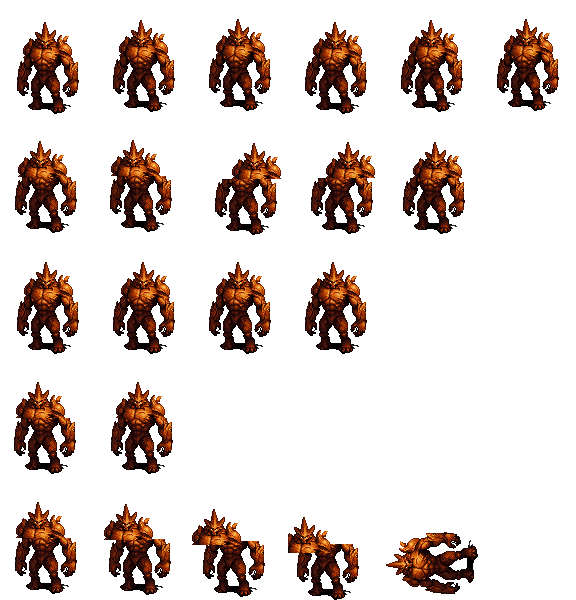
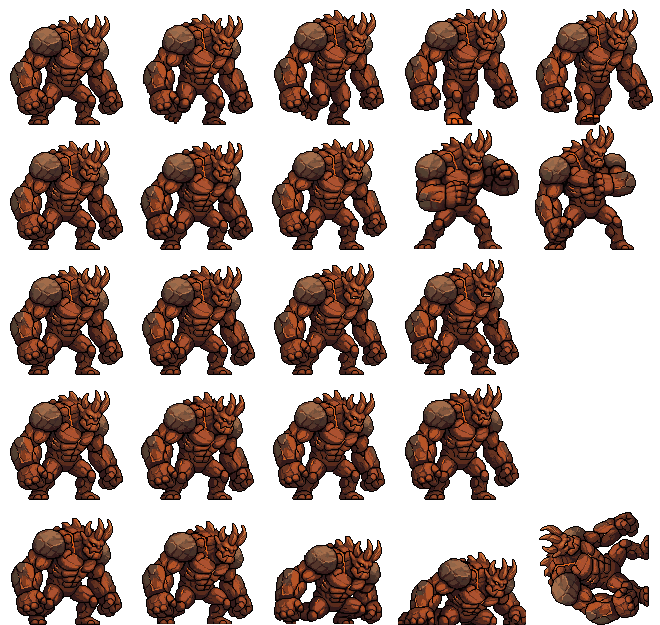
Art cleanup prototype: Thorn Warden and Stone Golem remade in the main style, foes tools
Claude-Session: https://claude.ai/code/session_01PhJ3J8jtF6m8CHNUaB6hBA

diff --git a/src/sim/foes.ts b/src/sim/foes.ts
@@ -73,7 +73,7 @@ export const FOES: Record<string, UnitDef> = {
   orcWarlord: { ...WARLORD, id: 'orcWarlord', name: 'Orc Warlord', sheet: 'hk_orc_warlord', scale: 0.55 },
   demonLord: { ...DEMON_LORD, id: 'demonLord', name: 'Demon Lord', sheet: 'hk_demon_lord', scale: 0.46, hp: 3600, atk: 70 },
   hornedOgre: { ...HORNED_OGRE, id: 'hornedOgre', name: 'Horned Ogre', sheet: 'hk_ogre_horned', scale: 0.47, hp: 4800, atk: 85 },
-  forestBoss1: { ...FOREST, id: 'forestBoss1', name: 'Thorn Warden', sheet: 'forest_boss_1', scale: 1.05, hp: 3300, atk: 65 },
+  forestBoss1: { ...FOREST, id: 'forestBoss1', name: 'Thorn Warden', sheet: 'forest_boss_1', scale: 0.45, hp: 3300, atk: 65 },
   forestBoss2: { ...FOREST, id: 'forestBoss2', name: 'Wood Raider', sheet: 'forest_boss_2', scale: 1.05, hp: 3900, atk: 72, def: 6, moveMs: 500, atkMs: 900, jump: 3, role: 'Forest raider, quick' },
   forestBoss3: { ...FOREST, id: 'forestBoss3', name: 'Grove Spearlord', sheet: 'forest_boss_3', scale: 1.28, hp: 6000, atk: 100, def: 5, range: 2, role: 'Forest spearman' },
   // the armies' kinds (same sheets, a skill each)
@@ -110,7 +110,7 @@ export const FOES: Record<string, UnitDef> = {
   nineTails: { ...MID, id: 'nineTails', name: 'Nine-Tailed Fox', sheet: 'kitsune', scale: 0.95, hp: 1500, atk: 46, def: 6, range: 3, shot: 'fire', moveMs: 600, atkMs: 1300, role: 'Foxfire, and heroes turn on their own' },
   oniKing: { side: 'foe', id: 'oniKing', name: 'Oni King', sheet: 'oni_king', scale: 0.5, hp: 3200, atk: 80, def: 11, range: 1, moveMs: 850, atkMs: 1300, jump: 2, role: 'Smashes the line, roars heroes down' },
   // the Golem Forge
-  stoneGolem: { ...GOLEM, id: 'stoneGolem', name: 'Stone Golem', sheet: 'golem_stone', scale: 0.55, role: 'Crushing blows' },
+  stoneGolem: { ...GOLEM, id: 'stoneGolem', name: 'Stone Golem', sheet: 'golem_stone', scale: 0.45, role: 'Crushing blows' },
   ironGolem: { ...GOLEM, id: 'ironGolem', name: 'Iron Golem', sheet: 'golem_iron', scale: 0.55, hp: 540, atk: 24, def: 12, moveMs: 1100, role: 'Plated, draws the heroes' },
   crystalGolem: { ...GOLEM, id: 'crystalGolem', name: 'Crystal Golem', sheet: 'golem_crystal', scale: 0.55, hp: 340, atk: 26, def: 7, moveMs: 900, atkMs: 1300, role: 'Shards that hold heroes still' },
   magmaGolem: { ...GOLEM, id: 'magmaGolem', name: 'Magma Golem', sheet: 'golem_magma', scale: 0.55, hp: 400, atk: 32, def: 6, moveMs: 950, role: 'Molten blows, bursts of magma' },

diff --git a/tools/pixellab/foes/gen.py b/tools/pixellab/foes/gen.py
@@ -1,0 +1,58 @@
+# Remakes a foe's art with PixelLab (docs/notes/art-cleanup.md); same flow as heroes/gen.py.
+#   gen.py base <id> <seed>          submit a base figure (4 candidates), poll, save tools/w/base/<id>_s<seed>_<n>.png (job id saved first)
+#   gen.py anim <id> <row,row,..>    submit the clips from tools/w/pick_<id>.png (the picked candidate)
+#   gen.py collect <id> <row,row,..> poll them and save the frames to tools/w/anim/<id>_<row>_<n>.png
+# then: python3 tools/pixellab/cut.py <id> walk,attack,idle,hurt,dead[,attack2]  and  python3 tools/pixellab/heroes/finish.py <id>
+import sys,os,json,io,base64
+sys.path.insert(0,os.path.dirname(os.path.dirname(os.path.abspath(__file__))));sys.path.insert(0,os.path.dirname(os.path.abspath(__file__)))
+os.chdir(os.path.dirname(os.path.dirname(os.path.dirname(os.path.dirname(os.path.abspath(__file__))))))
+from api import *
+from spec import *
+from PIL import Image
+W='tools/w/';os.makedirs(W+'anim',exist_ok=True);os.makedirs(W+'base',exist_ok=True)
+cmd,i=sys.argv[1:3];h=HEROES[i]
+def save(r,path):
+    ims=(r.get('last_response') or {}).get('images',[])
+    for n,m in enumerate(ims):Image.open(io.BytesIO(base64.b64decode(m['base64']))).convert('RGBA').save(path(n))
+    return len(ims)
+if cmd=='base':
+    seed=int(sys.argv[3]);c=h['canvas']
+    refs=[ref(r,'idle',c) for r in h['refs']]
+    body={'style_images':[{'image':{'type':'base64','base64':b64(r),'format':'png'},'width':c,'height':c} for r in refs],'description':h['desc'],'style_description':SD,'no_background':True,'seed':seed}
+    r=post('/generate-with-style-v2',body,W+'base_%s_s%d.json'%(i,seed));print(list(r.keys()))
+    job=r.get('background_job_id')
+    if job:r=poll(job)
+    print(r.get('status'),save(r,lambda n:W+'base/%s_s%d_%d.png'%(i,seed,n)))
+elif cmd=='anim':
+    # gen.py anim <id> <rows> [seed] [frames]: a hero's own prompt (spec 'anims') beats the shared one
+    seed=int(sys.argv[4]) if len(sys.argv)>4 else 7;n=int(sys.argv[5]) if len(sys.argv)>5 else 4
+    img=Image.open(W+'pick_%s.png'%i).convert('RGBA')
+    for k in sys.argv[3].split(','):
+        if os.path.exists(W+'job_%s_%s_s%d.json'%(i,k,seed)):continue   # already submitted: a rerun resumes
+        body={'first_frame':{'type':'base64','base64':b64(img),'format':'png'},'action':h.get('anims',{}).get(k,ANIMS[k]),'frame_count':n,'no_background':True,'seed':seed}
+        print(k,post('/animate-with-text-v3',body,W+'job_%s_%s_s%d.json'%(i,k,seed))['background_job_id'])
+elif cmd=='collect':
+    # gen.py collect <id> <rows> [seed]: frames go to anim/<id>_<row>_s<seed>_<n>.png (use `use` to pick a take)
+    seed=int(sys.argv[4]) if len(sys.argv)>4 else 7
+    for k in sys.argv[3].split(','):
+        r=poll(json.load(open(W+'job_%s_%s_s%d.json'%(i,k,seed)))['background_job_id'])
+        print(k,r['status'],save(r,lambda n:W+'anim/%s_%s_s%d_%d.png'%(i,k,seed,n)))
+elif cmd=='use':
+    # gen.py use <id> <row>=<seed> ...: copy a take to the names cut.py reads
+    import shutil,glob
+    for a in sys.argv[3:]:
+        k,seed=a.split('=');src=k
+        if ':' in seed:src,seed=seed.split(':')    # row=otherrow:seed uses another row's take (e.g. attack=attack2:5)
+        for f in glob.glob(W+'anim/%s_%s_[0-9]*.png'%(i,k)):os.remove(f)
+        for f in glob.glob(W+'anim/%s_%s_s%s_*.png'%(i,src,seed)):shutil.copy(f,W+'anim/%s_%s_%s'%(i,k,f.rsplit('_',1)[1]))
+elif cmd=='strip':
+    # gen.py strip <id> <row>=<seed> ...: a 3x preview of takes, one row each -> tools/w/strip_<id>.png
+    rows=[]
+    for a in sys.argv[3:]:
+        k,seed=a.split('=');import glob
+        rows.append([Image.open(f).convert('RGBA') for f in sorted(glob.glob(W+'anim/%s_%s_s%s_*.png'%(i,k,seed)))])
+    w=max(m.width for r in rows for m in r);hh=max(m.height for r in rows for m in r);K=3
+    out=Image.new('RGBA',(max(len(r) for r in rows)*w*K,len(rows)*hh*K),(86,108,84,255))
+    for y,r in enumerate(rows):
+        for x,m in enumerate(r):out.alpha_composite(m.resize((m.width*K,m.height*K),Image.NEAREST),(x*w*K,y*hh*K))
+    out.save(W+'strip_%s.png'%i)

diff --git a/tools/pixellab/foes/spec.py b/tools/pixellab/foes/spec.py
@@ -1,0 +1,14 @@
+# The foes remade in the main Craftpix style (docs/notes/art-cleanup.md): id -> canvas, style refs, description, own clip prompts.
+SD='side-view pixel art, crisp single pixels, dark outlines, soft shading, realistic adult proportions, muted dark-fantasy palette'
+def D(d):return d+', side view facing right, standing idle, full body, fills the canvas'
+BIG=['minotaur_1','samurai_commander','hk_orc_warlord']
+HEROES={
+ 'thorn_warden':dict(canvas=128,refs=BIG,desc=D('BOSS Thorn Warden, a towering green forest beast-guardian covered in thorny vines and moss, two huge glowing purple and blue mushroom caps growing on its back and shoulders, a long curling blue tail, heavy clawed limbs, glowing white eyes')),
+ 'golem_stone':dict(canvas=128,refs=BIG,desc=D('stone golem, a hulking rust-orange rock giant with cracked boulder skin, huge fists, a spiked rocky crest on its head, hunched and menacing, muscular stone body')),
+}
+ANIMS={'idle':'standing idle, breathing heavily with a slow bob, staying in place, facing right',
+ 'walk':'walking steadily to the right with big heavy clear strides, legs clearly alternating, body swaying and bobbing, arms swinging',
+ 'attack':'attacking with a powerful swing of the arm to the right, lunging forward, then recovering, no magic effects',
+ 'hurt':'recoiling backwards sharply after being struck, staggering back with the head thrown back and the body flinching, then recovering',
+ 'dead':'dying: struck and knocked backwards, body toppling over backwards, falling onto the back and lying still on the ground',
+ 'attack2':'casting: raising both arms and thrusting forward to the right with a big gesture, then pulling back, no magic effects'}

diff --git a/tools/pixellab/lie.py b/tools/pixellab/lie.py
@@ -6,8 +6,11 @@ import json,sys
 from PIL import Image
 D='src/art/units/'
 d=json.load(open(D+'sheets.json'))
+only=sys.argv[1:]   # names given: just those sheets (the foes remade in docs/notes/art-cleanup.md)
 for k,e in d.items():
-    if not(k.startswith('cls_') or k.startswith('hk_') or k.startswith('hero_') or k in('lich_king','oni_king')) or e.get('lies'):continue
+    if only and k not in only:continue
+    if not only and not(k.startswith('cls_') or k.startswith('hk_') or k.startswith('hero_') or k in('lich_king','oni_king')):continue
+    if e.get('lies'):continue
     im=Image.open(D+k+'.png').convert('RGBA');w,h=e['w'],e['h'];rows=e['rows'];per=e['perRow']
     cell=lambda r,i:im.crop((i*w,rows.index(r)*h,(i+1)*w,(rows.index(r)+1)*h))
     idle=cell('idle',0);b=idle.getbbox();cx=(b[0]+b[2])/2

diff --git a/tools/pixellab/foes/finish.py b/tools/pixellab/foes/finish.py
@@ -1,0 +1,9 @@
+# Installs a cut foe sheet (tools/w/out_<id>.png from cut.py) over a game sheet and adds the lying last death frame (lie.py).
+# Run from the repo root: finish.py <id> <sheet name>. Safe to run twice.
+import sys,json,subprocess
+from PIL import Image
+D='src/art/units/'
+i,name=sys.argv[1:3]
+Image.open('tools/w/out_%s.png'%i).save(D+name+'.png')
+d=json.load(open(D+'sheets.json'));d[name]=json.load(open('tools/w/out_%s.json'%i));json.dump(d,open(D+'sheets.json','w'),indent=1)
+subprocess.check_call([sys.executable,'tools/pixellab/lie.py',name])
